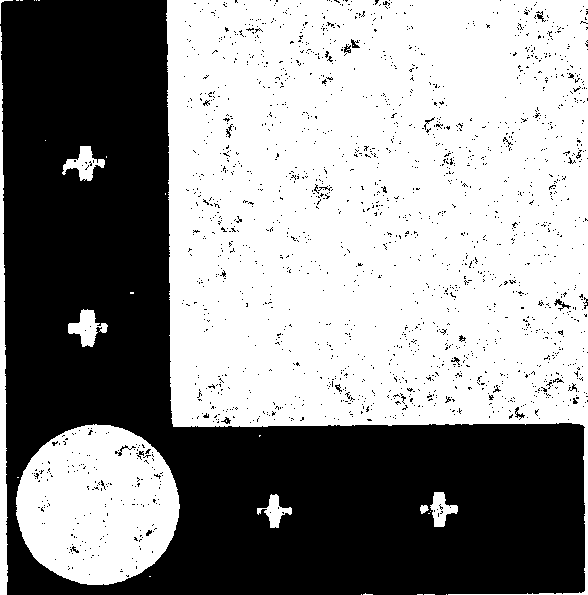
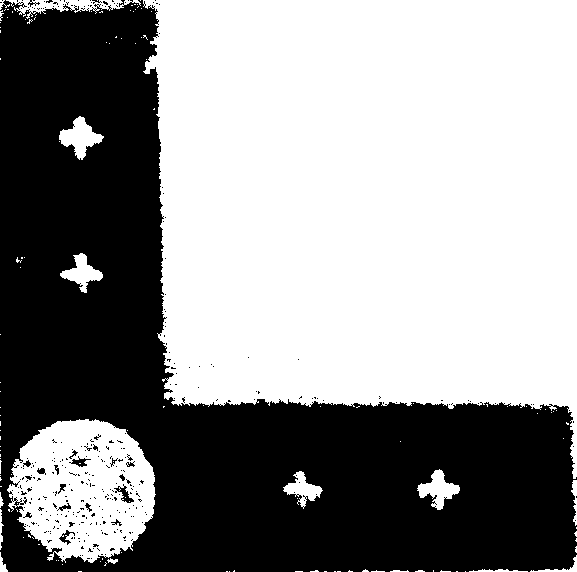
Sandwitch assembly tested. Rotation stage bugs detacted.

diff --git a/assembly/assemblyCommon/AssemblyAssembler.cc b/assembly/assemblyCommon/AssemblyAssembler.cc
@@ -55,12 +55,16 @@ void  AssemblyAssembler::run_sandwitchassembly(double x_a, double y_a, double z_
     x_bottom = x_b;
     y_bottom = y_b;
     z_bottom = z_b;
+
+    x_top = x_t;
+    y_top = y_t;
+    z_top = z_t;
     
     step = 0;
 
     //Parameters of assembly.
-    z_prepickup_distance = 5.00;
-    platform_rotation = 90.00;
+    z_prepickup_distance = 20.00;
+    platform_rotation = -90.00;
     z_spacer_thickness = 2.00;
     z_sensor_thickness = 0.30;
 
@@ -105,7 +109,7 @@ void  AssemblyAssembler::process_step(){
       NQLog("AssemblyAssembler:: step == ") << step;
         step++;
 // Step 0: Go to top part pre-pick up position
-        emit moveAbsolute(x_top, y_top, (z_top - z_prepickup_distance), 0.0);
+        emit moveAbsolute(x_top, y_top, (z_top + z_prepickup_distance), 0.0);
         //emit nextStep();
     }
     else if  (step == 1){
@@ -129,7 +133,7 @@ void  AssemblyAssembler::process_step(){
       NQLog("AssemblyScanner:: step == ") << step;
         step++;
 // Step 3: Go to top part pre-pick up position
-        emit moveAbsolute(x_top, y_top, (z_top - z_prepickup_distance), 0.0);
+        emit moveAbsolute(x_top, y_top, (z_top + z_prepickup_distance), 0.0);
         //emit nextStep();
         
     }else if (step == 4){
@@ -137,7 +141,7 @@ void  AssemblyAssembler::process_step(){
       NQLog("AssemblyAssembler:: step == ") << step;
         step++;
 // Step 4: Go to assembly pre-pick up position
-        emit moveAbsolute(x_assembly, y_assembly, (z_assembly - z_prepickup_distance), 0.0);
+        emit moveAbsolute(x_assembly, y_assembly, (z_assembly + z_prepickup_distance), 0.0);
         //emit nextStep();
         
     }else if (step == 5){
@@ -169,7 +173,7 @@ void  AssemblyAssembler::process_step(){
       NQLog("AssemblyAssembler:: step == ") << step;
         step++;
 // Step 8: Go to assembly pre-pick up position
-        emit moveAbsolute(x_assembly, y_assembly, (z_assembly - z_prepickup_distance), 0.0);
+        emit moveAbsolute(x_assembly, y_assembly, (z_assembly + z_prepickup_distance), 0.0);
         //emit nextStep();
         
         
@@ -178,7 +182,7 @@ void  AssemblyAssembler::process_step(){
       NQLog("AssemblyAssembler:: step == ") << step;
         step++;
 // Step 9: Go to top pre-pick up position
-        emit moveAbsolute(x_top, y_top, (z_top - z_spacer_thickness - z_prepickup_distance), 0.0);
+        emit moveAbsolute(x_top, y_top, (z_top + z_spacer_thickness + z_prepickup_distance), 0.0);
         //emit nextStep();
 
    
@@ -187,7 +191,7 @@ void  AssemblyAssembler::process_step(){
       NQLog("AssemblyAssembler:: step == ") << step;
         step++;
 // Step 10: Go to top pick up position
-        emit moveAbsolute(x_top, y_top, (z_top - z_spacer_thickness), 0.0);
+        emit moveAbsolute(x_top, y_top, (z_top + z_spacer_thickness), 0.0);
         //emit nextStep();
 
     }else if (step == 11){
@@ -203,7 +207,7 @@ void  AssemblyAssembler::process_step(){
       NQLog("AssemblyAssembler:: step == ") << step;
         step++;
 // Step 9: Go to top part pre-pick up position
-        emit moveAbsolute(x_top, y_top, (z_top - z_spacer_thickness - z_prepickup_distance), 0.0);
+        emit moveAbsolute(x_top, y_top, (z_top + z_spacer_thickness + z_prepickup_distance), 0.0);
         //emit nextStep();
 
     }else if (step == 13){
@@ -211,7 +215,7 @@ void  AssemblyAssembler::process_step(){
       NQLog("AssemblyAssembler:: step == ") << step;
         step++;
 // Step 13: Go to bottom part pre-pick up position
-        emit moveAbsolute(x_bottom, y_bottom, (z_bottom - z_prepickup_distance), 0.0);
+        emit moveAbsolute(x_bottom, y_bottom, (z_bottom + z_prepickup_distance), 0.0);
         //emit nextStep();
 
     }else if (step == 14){
@@ -235,7 +239,7 @@ void  AssemblyAssembler::process_step(){
       NQLog("AssemblyAssembler:: step == ") << step;
         step++;
 // Step 16: Go to bottom part pre-pick up position
-        emit moveAbsolute(x_bottom, y_bottom, (z_bottom - z_prepickup_distance), 0.0);
+        emit moveAbsolute(x_bottom, y_bottom, (z_bottom + z_prepickup_distance), 0.0);
         //emit nextStep();
 
     }else if (step == 17){
@@ -243,7 +247,7 @@ void  AssemblyAssembler::process_step(){
       NQLog("AssemblyAssembler:: step == ") << step;
         step++;
 // Step 17: Go to assembly rotated(!) pre-pick up position
-        emit moveAbsolute(x_assembly, y_assembly, (z_assembly - z_prepickup_distance), platform_rotation);
+        emit moveAbsolute(x_assembly, y_assembly, (z_assembly + z_prepickup_distance), platform_rotation);
         //emit nextStep();	
 
 
@@ -268,7 +272,7 @@ void  AssemblyAssembler::process_step(){
       NQLog("AssemblyAssembler:: step == ") << step;
         step++;
 // Step 20: Go to assembly rotated(!) pre-pick up position
-        emit moveAbsolute(x_assembly, y_assembly, (z_assembly - z_prepickup_distance), platform_rotation);
+        emit moveAbsolute(x_assembly, y_assembly, (z_assembly + z_prepickup_distance), platform_rotation);
         //emit nextStep();
 	
     }else if (step == 21){
@@ -276,7 +280,7 @@ void  AssemblyAssembler::process_step(){
       NQLog("AssemblyAssembler:: step == ") << step;
         step++;
 // Step 21: Go to top pre-pick up position
-        emit moveAbsolute(x_top, y_top, (z_top - z_spacer_thickness - z_prepickup_distance), platform_rotation);
+        emit moveAbsolute(x_top, y_top, (z_top + z_spacer_thickness + z_prepickup_distance), platform_rotation);
         //emit nextStep();
 
    
@@ -285,7 +289,7 @@ void  AssemblyAssembler::process_step(){
       NQLog("AssemblyAssembler:: step == ") << step;
         step++;
 // Step 22: Go to top pick up position
-        emit moveAbsolute(x_top, y_top, (z_top - z_spacer_thickness), platform_rotation);
+        emit moveAbsolute(x_top, y_top, (z_top + z_spacer_thickness), platform_rotation);
         //emit nextStep();
 
     }else if (step == 23){
@@ -301,7 +305,7 @@ void  AssemblyAssembler::process_step(){
       NQLog("AssemblyAssembler:: step == ") << step;
         step++;
 // Step 24: Go to top part pre-pick up position
-        emit moveAbsolute(x_top, y_top, (z_top - z_spacer_thickness - z_prepickup_distance), platform_rotation);
+        emit moveAbsolute(x_top, y_top, (z_top + z_spacer_thickness + z_prepickup_distance), platform_rotation);
         //emit nextStep();
 
     }else if (step == 25){
@@ -309,7 +313,7 @@ void  AssemblyAssembler::process_step(){
       NQLog("AssemblyAssembler:: step == ") << step;
         step++;
 // Step 25: Go to assembly rotated(!) pre-pick up position
-        emit moveAbsolute(x_assembly, y_assembly, (z_assembly - z_spacer_thickness - z_sensor_thickness - z_prepickup_distance), platform_rotation);
+        emit moveAbsolute(x_assembly, y_assembly, (z_assembly + z_spacer_thickness + z_sensor_thickness + z_prepickup_distance), platform_rotation);
         //emit nextStep();
 
     }else if (step == 26){
@@ -317,7 +321,7 @@ void  AssemblyAssembler::process_step(){
       NQLog("AssemblyAssembler:: step == ") << step;
         step++;
 // Step 26: Go to assembly rotated(!) pick up position
-        emit moveAbsolute(x_assembly, y_assembly, (z_assembly - z_spacer_thickness - z_sensor_thickness), platform_rotation);
+        emit moveAbsolute(x_assembly, y_assembly, (z_assembly + z_spacer_thickness + z_sensor_thickness), platform_rotation);
         //emit nextStep();
 
     }else if (step == 27){
@@ -340,7 +344,7 @@ void  AssemblyAssembler::process_step(){
       NQLog("AssemblyAssembler:: step == ") << step;
         step++;
 // Step 29: Go to assembly rotated(!) pre-pick up position
-        emit moveAbsolute(x_assembly, y_assembly, (z_assembly - z_spacer_thickness - z_sensor_thickness - z_prepickup_distance), platform_rotation);
+        emit moveAbsolute(x_assembly, y_assembly, (z_assembly + z_spacer_thickness + z_sensor_thickness - z_prepickup_distance), platform_rotation);
         //emit nextStep();
 
     }else if (step == 30){

diff --git a/assembly/assemblyCommon/AssemblySensorMarkerFinder.cc b/assembly/assemblyCommon/AssemblySensorMarkerFinder.cc
@@ -634,6 +634,7 @@ void AssemblySensorMarkerFinder::drawOrientation()
 }
 
 
+//void AssemblySensorMarkerFinder::findMarker_templateMatching(cv::Mat img, cv::Mat img_clip_A, cv::Mat img_glass_marker_raw)
 void AssemblySensorMarkerFinder::findMarker_templateMatching(cv::Mat img, cv::Mat img_clip_A)
 {
     NQLog("AssemblySensorMarkerFinder") << "Finding Marker (Template Matching) here";
@@ -643,47 +644,60 @@ void AssemblySensorMarkerFinder::findMarker_templateMatching(cv::Mat img, cv::Ma
     Point matchLoc_1, matchLoc_2, matchLoc_final;
     Mat result_1, result_2; 
     Mat img_copy = img.clone();
-    
+   
+
     //Greyscale images
     Mat img_copy_gs(img_copy.size(), img_copy.type());
     Mat img_clip_A_gs(img_clip_A.size(), img_clip_A.type());
-    
+    //Mat img_glass_marker_raw_gs(img_glass_marker_raw.size(), img_glass_marker_raw.type());
 
     if (img.channels()> 1){
     //convert color to GS
     cvtColor( img_copy,   img_copy_gs,   CV_BGR2GRAY );
-    }else{
+    }else {
      img_copy_gs = img_copy.clone();
-}
+    }
 
     if (img_clip_A.channels()> 1){
     //convert color to GS
     cvtColor( img_clip_A, img_clip_A_gs, CV_BGR2GRAY );
-    }else{
+    }else {
      img_clip_A_gs = img_clip_A.clone();
-}
+    }
+
+    /*if (img_glass_marker_raw.channels()> 1){
+    //convert color to GS
+    cvtColor( img_glass_marker_raw, img_glass_marker_raw_gs, CV_BGR2GRAY );
+    }else {
+     img_glass_marker_raw_gs = img_glass_marker_raw.clone();
+    }*/
 
 
 
     //Binary images
     Mat img_copy_bin(img_copy_gs.size(), img_copy_gs.type());
     Mat img_clip_A_bin(img_clip_A_gs.size(), img_clip_A_gs.type());
+    //Mat img_glass_marker_bin(img_glass_marker_raw_gs.size(), img_glass_marker_raw_gs.type());
     
     //Apply thresholding
     cv::threshold(img_copy_gs, img_copy_bin, generalThreshold, 255, cv::THRESH_BINARY);
-    cv::threshold(img_clip_A_gs, img_clip_A_bin, 90, 255, cv::THRESH_BINARY);
-    
+    cv::threshold(img_clip_A_gs, img_clip_A_bin, 88, 255, cv::THRESH_BINARY);    //90 for silicon marker
+    //cv::threshold(img_glass_marker_raw_gs, img_glass_marker_bin, 88, 255, cv::THRESH_BINARY);
+        
     // img_copy_bin = img_copy_gs.clone();
     // img_clip_A_bin = img_clip_A_gs.clone();
     
     std::string filename_img_bin = Config::CMSTkModLabBasePath + "/share/assembly/Sensor_bin.png";
     std::string filename_clip_A_bin = Config::CMSTkModLabBasePath + "/share/assembly/clip_A_bin.png";
+    //std::string filename_img_glass_marker_bin = Config::CMSTkModLabBasePath + "/share/assembly/img_glass_marker_bin.png";
     
     cv::imwrite(filename_img_bin, img_copy_bin);
     cv::imwrite(filename_clip_A_bin, img_clip_A_bin);
+    //cv::imwrite(filename_img_glass_marker_bin, img_glass_marker_bin);
     
     QString filename_img_bin_qs = QString::fromStdString(filename_img_bin);
     QString filename_clip_A_bin_qs = QString::fromStdString(filename_clip_A_bin);
+    //QString filename_img_glass_marker_bin_qs = QString::fromStdString(filename_img_glass_marker_bin);
     
     //emit updateImage(4, filename_img_bin_qs);
     //emit updateImage(5, filename_clip_A_bin_qs);

diff --git a/assembly/assemblyCommon/AssemblyModuleAssembler.cc b/assembly/assemblyCommon/AssemblyModuleAssembler.cc
@@ -231,7 +231,8 @@ AssemblyModuleAssembler::AssemblyModuleAssembler(AssemblyVUEyeModel *uEyeModel_,
     
   connect(precision1, SIGNAL(launchPrecisionEstimation(double, double, double, double, double, double, int)),
             this, SLOT(startMacro(double, double, double, double, double, double, int)));
-    
+  
+  connect(sandwitch1, SIGNAL(launchSandwitchAssembly(double, double, double, double, double, double, double, double, double)), this, SIGNAL(launchSandwitchAssembly(double, double, double, double, double, double, double, double, double)));
     
   //connect(cmdr2, SIGNAL(moveAbsolute(double,double,double,double)),
   //        motionManager_, SLOT(moveRelative(double,double,double,double)));
@@ -314,7 +315,7 @@ void AssemblyModuleAssembler::updateImage(int stage, QString filename)
 
   if (stage == 1 ){
     imageView_1->setImage(img_gs);
-    imageView_1->setZoomFactor(0.5);
+    imageView_1->setZoomFactor(0.3);
     
   }else if (stage ==2){
     imageView_2->setImage(img_gs);
@@ -541,9 +542,9 @@ AssemblySandwitchAssembler::AssemblySandwitchAssembler(QWidget *parent, string t
     
 
     
-    lineEdit1->setText("74.9968,-3.4013,-89.6049");
-    lineEdit2->setText("-13.0000,-46.9969,-120.3002");
-    lineEdit3->setText("-13.0000,-46.9969,-120.3002");
+    lineEdit1->setText("0.0,55.0,-108.0");
+    lineEdit2->setText("50.0,-111.90,-127.7184");
+    lineEdit3->setText("-80.0,-111.90,-125.70");
     
     connect(button1, SIGNAL(clicked()),
             this, SLOT(run()));

diff --git a/assembly/assemblyCommon/AssemblyScanner.cc b/assembly/assemblyCommon/AssemblyScanner.cc
@@ -156,9 +156,9 @@ void  AssemblyScanner::process_step(){
 
       NQLog("AssemblyScanner:: step == ") << step;
         step++;
-	//emit nextStep();
+	emit nextStep();
         // Step 7: Go back to pickup position
-        emit moveAbsolute(x_pickup,y_pickup,z_pickup, 0.0);
+        //emit moveAbsolute(x_pickup,y_pickup,z_pickup, 0.0);
  
         
     }else if (step == 7){
